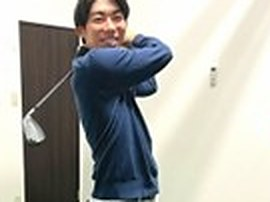
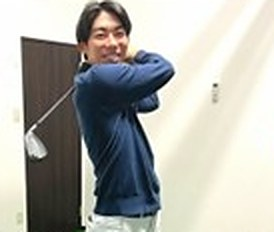
Keep every coach's face inside the photo frame
Use the whole photo from the flyer instead of a centre crop, point each
image at the coach's face with object-position, and on phones show a
square thumbnail instead of a tall strip that cut faces off at the
sides.

Claude-Session: https://claude.ai/code/session_01NC437QVh9gZ1gjX5RHEKJ2

diff --git a/index.html b/index.html
@@ -257,7 +257,7 @@ section{padding:96px 0}
 @media (max-width:560px){
   .coach-grid{grid-template-columns:1fr;gap:12px}
   .coach-card{flex-direction:row;align-items:stretch}
-  .coach-ph{width:38%;aspect-ratio:auto;flex:none}
+  .coach-ph{width:36%;aspect-ratio:1;flex:none;align-self:center;margin-left:10px;border-radius:10px;overflow:hidden}
   .coach-card .coach-tx{padding:12px 14px}
   .coach-card p.coach-name{font-size:18px}
   .coach-tag{font-size:10.5px;padding:1px 8px;margin-bottom:6px}
@@ -458,7 +458,7 @@ section{padding:96px 0}
       <div class="coach-badge reveal"><span>愛知県初<br>PGA基準</span><b>すべての会員様に、<em>PGA基準のマンツーマンレッスン</em>をお届けします。</b></div>
       <div class="coach-grid reveal">
         <article class="coach-card">
-          <div class="coach-ph"><img src="assets/coach/kitazawa.jpg" alt="北澤 利毅コーチ" width="600" height="450" loading="lazy"></div>
+          <div class="coach-ph"><img src="assets/coach/kitazawa.jpg" style="object-position:40% 25%" alt="北澤 利毅コーチ" width="600" height="500" loading="lazy"></div>
           <div class="coach-tx">
             <p class="coach-tag">PGA ティーチングプロ A級</p>
             <p class="coach-name">北澤 利毅<small>きたざわ りき</small></p>
@@ -466,7 +466,7 @@ section{padding:96px 0}
           </div>
         </article>
         <article class="coach-card">
-          <div class="coach-ph"><img src="assets/coach/hayashi.jpg" alt="林 大貴コーチ" width="600" height="450" loading="lazy"></div>
+          <div class="coach-ph"><img src="assets/coach/hayashi.jpg" style="object-position:50% 15%" alt="林 大貴コーチ" width="600" height="500" loading="lazy"></div>
           <div class="coach-tx">
             <p class="coach-tag">PGA ティーチングプロ（A級取得中）</p>
             <p class="coach-name">林 大貴<small>はやし だいき</small></p>
@@ -474,7 +474,7 @@ section{padding:96px 0}
           </div>
         </article>
         <article class="coach-card">
-          <div class="coach-ph"><img src="assets/coach/goto.jpg" alt="後藤 輝コーチ" width="600" height="450" loading="lazy"></div>
+          <div class="coach-ph"><img src="assets/coach/goto.jpg" style="object-position:40% 5%" alt="後藤 輝コーチ" width="600" height="500" loading="lazy"></div>
           <div class="coach-tx">
             <p class="coach-tag">PGA ティーチングプロ（A級取得中）</p>
             <p class="coach-name">後藤 輝<small>ごとう ひかる</small></p>
@@ -482,7 +482,7 @@ section{padding:96px 0}
           </div>
         </article>
         <article class="coach-card">
-          <div class="coach-ph"><img src="assets/coach/narita.jpg" alt="成田 風里コーチ" width="600" height="450" loading="lazy"></div>
+          <div class="coach-ph"><img src="assets/coach/narita.jpg" style="object-position:35% 30%" alt="成田 風里コーチ" width="600" height="500" loading="lazy"></div>
           <div class="coach-tx">
             <p class="coach-tag">PGA ティーチングプロ（A級取得中）</p>
             <p class="coach-name">成田 風里<small>なるた かざり</small></p>
@@ -490,7 +490,7 @@ section{padding:96px 0}
           </div>
         </article>
         <article class="coach-card">
-          <div class="coach-ph"><img src="assets/coach/nawa.jpg" alt="名和 里依コーチ" width="600" height="450" loading="lazy"></div>
+          <div class="coach-ph"><img src="assets/coach/nawa.jpg" style="object-position:75% 0%" alt="名和 里依コーチ" width="600" height="500" loading="lazy"></div>
           <div class="coach-tx">
             <p class="coach-tag">PGA ティーチングプロ取得中（USGTF ティーチングプロ）</p>
             <p class="coach-name">名和 里依<small>なわ さとえ</small></p>
